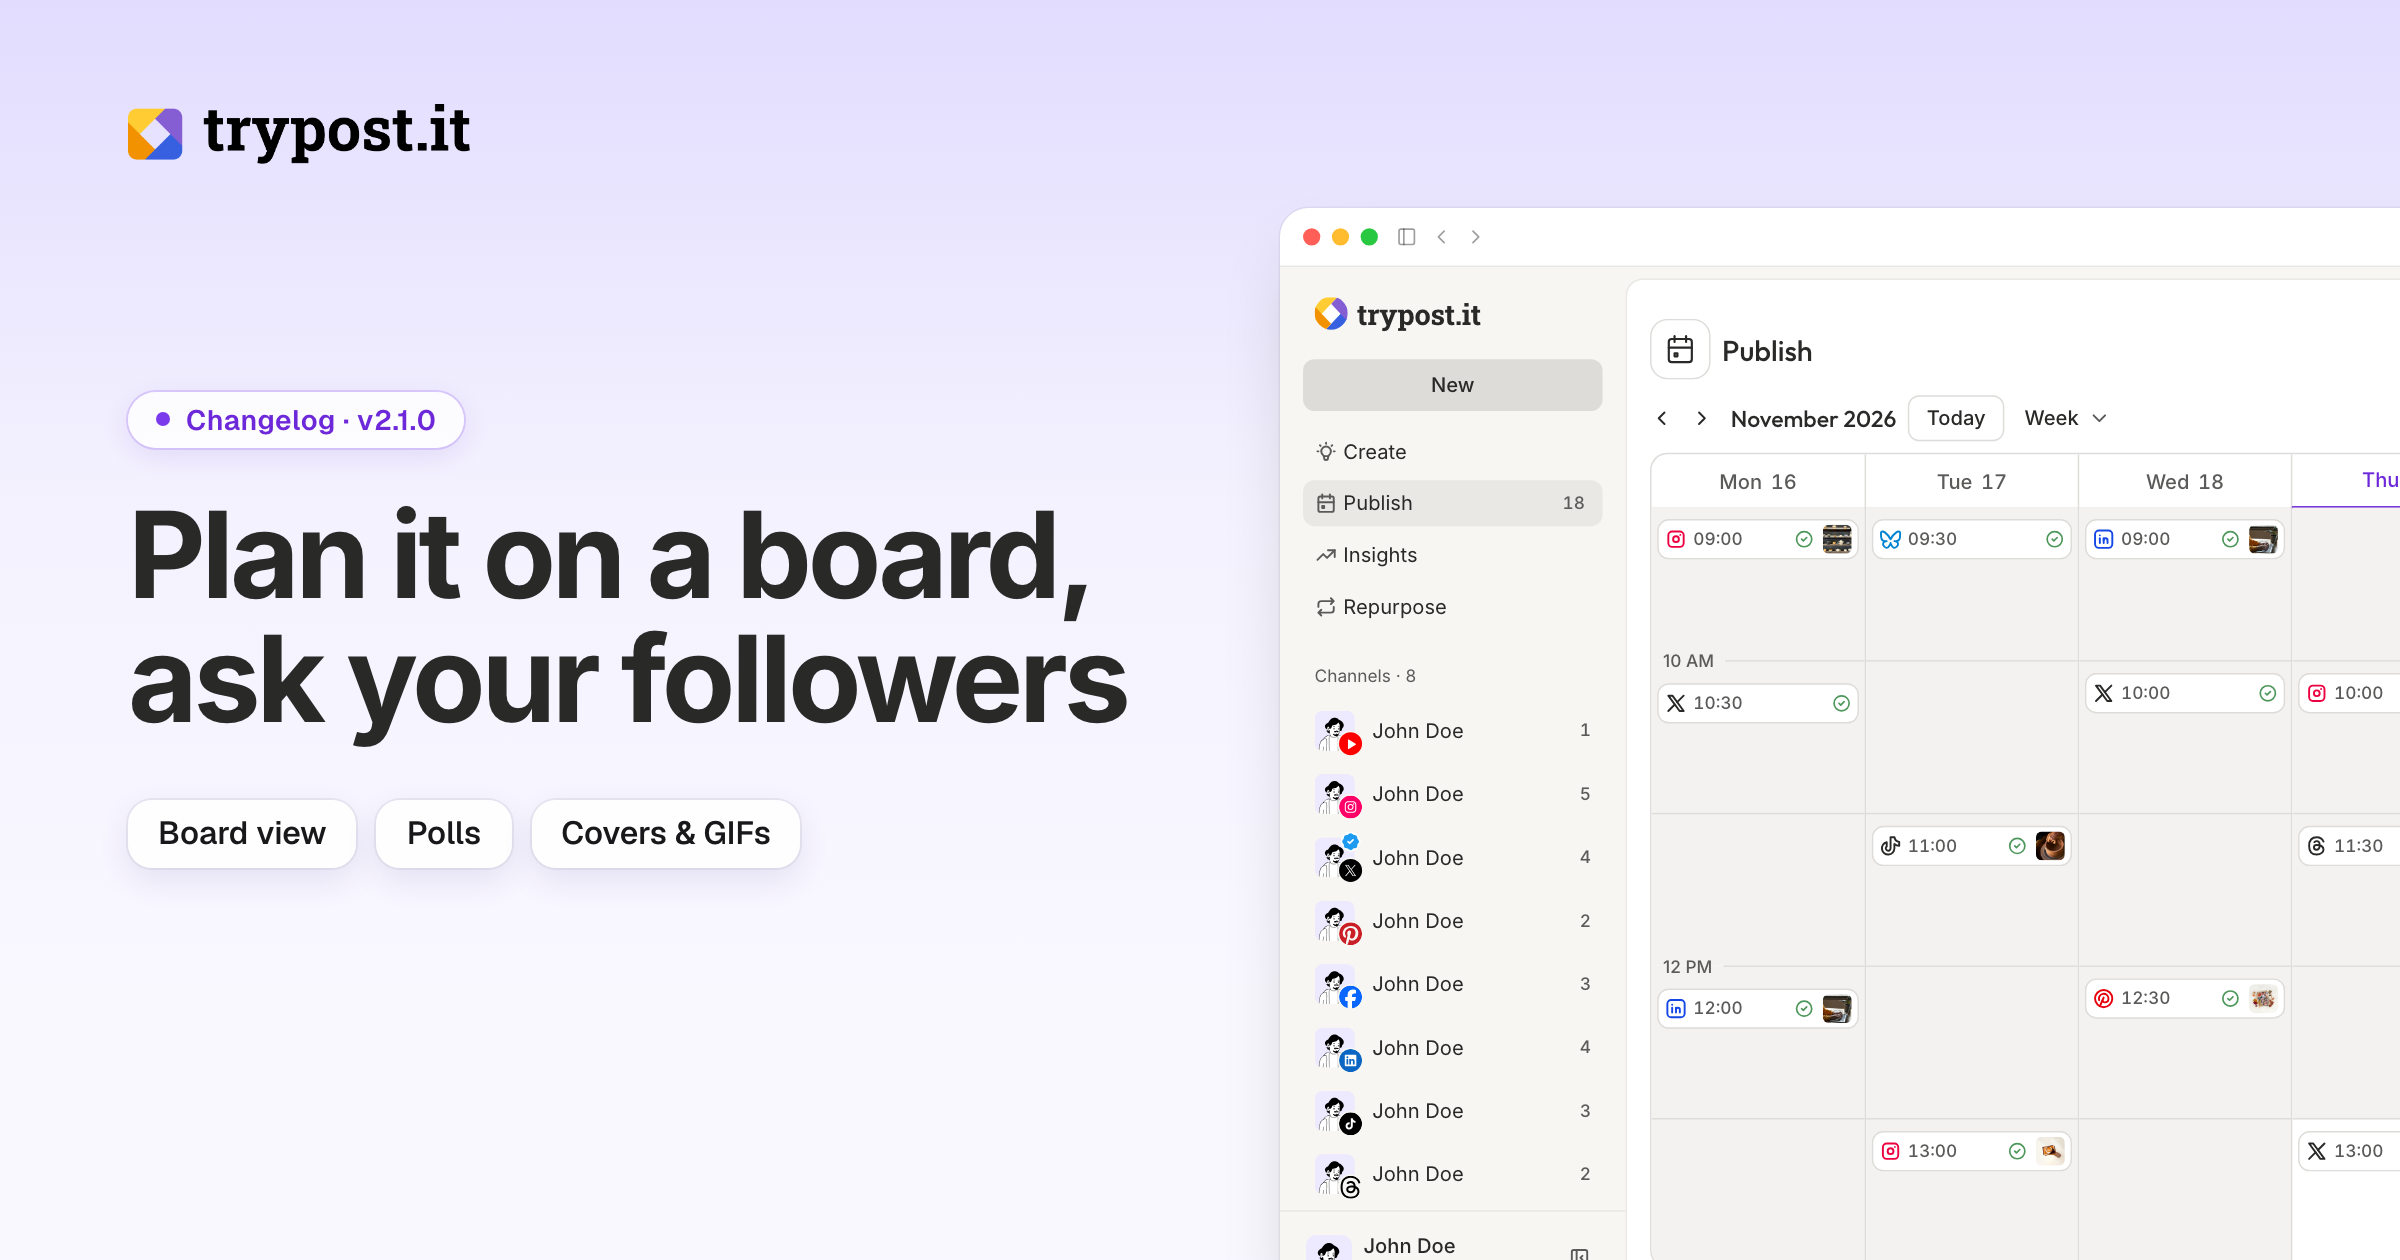
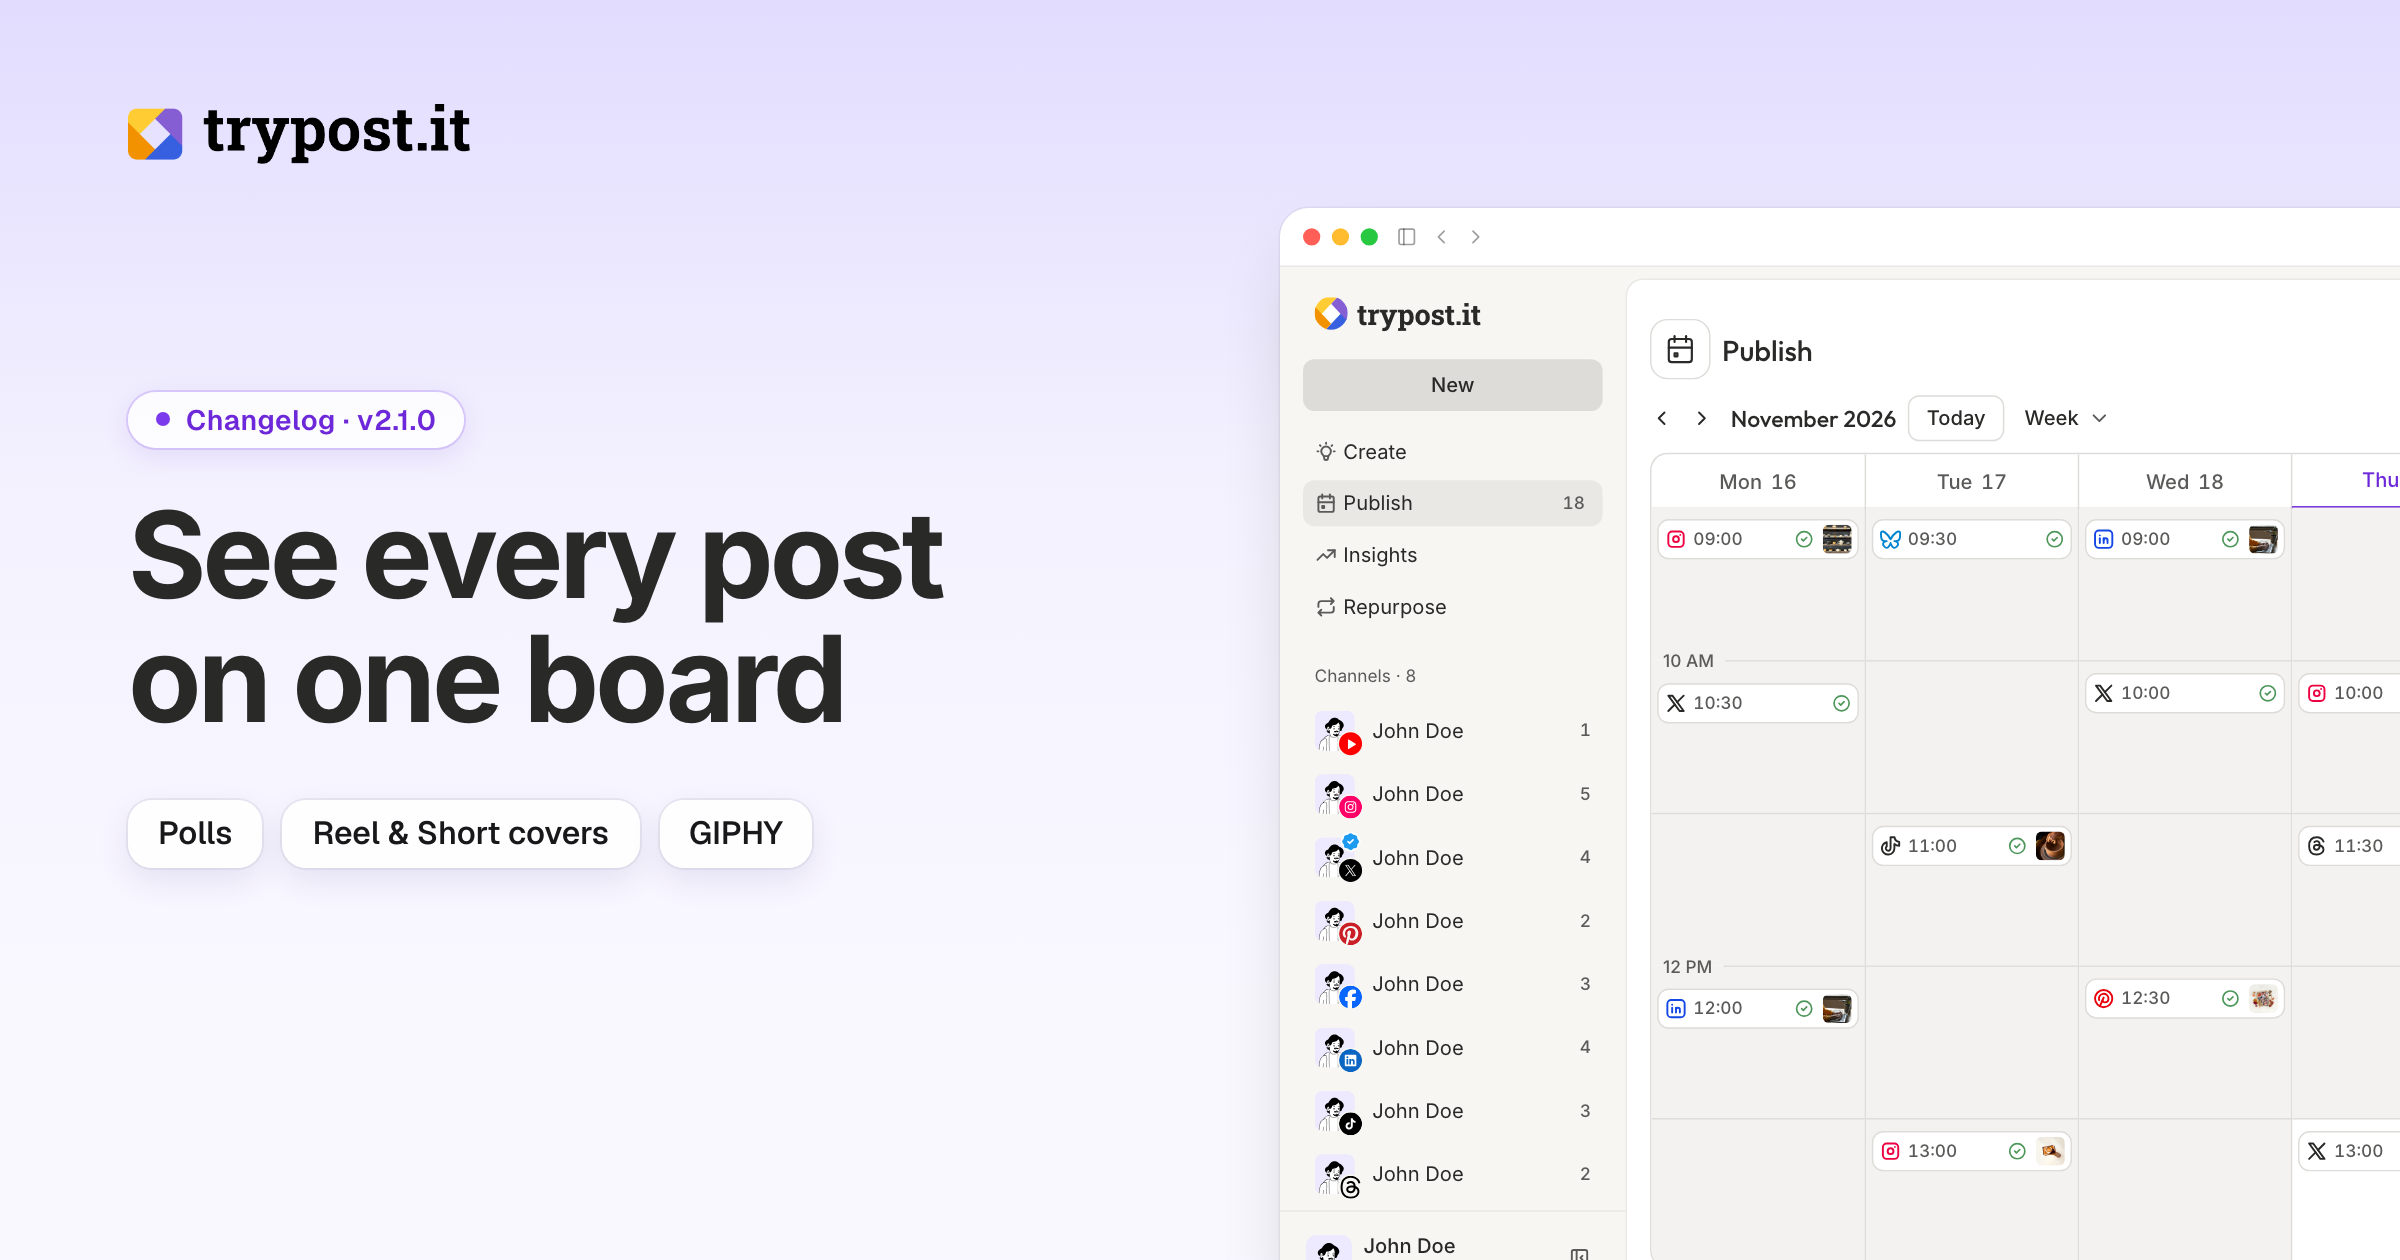
Write the release copy for the reader, and give v2.1.0 a clearer headline
/release now asks for the copywriting skill's principles and the in-app-copy voice: every
header, subject slot and bullet passes the "Now you can" test, talks to the reader, leads with
the point and uses the words on screen. The thumbnail headline carries the one biggest win in
two short lines, and the chips name the rest. The engine keeps each headline line on one line.
The v2.1.0 email and thumbnail are rewritten that way.

Changed region(s): [[0.0312, 0.4024, 0.4688, 0.5881], [0.0625, 0.65, 0.3438, 0.681]]

diff --git a/.claude/release-assets/render-thumbnail.ts b/.claude/release-assets/render-thumbnail.ts
@@ -188,7 +188,7 @@ try {
                 `margin:0;font-family:${titleStyle.fontFamily};font-weight:${titleStyle.fontWeight};font-size:${layout.title}px;line-height:1.04;letter-spacing:-0.035em;color:${titleStyle.color}`,
             );
             for (const text of [line1, line2]) {
-                headline.append(element('span', 'display:block', text));
+                headline.append(element('span', 'display:block;white-space:nowrap;width:max-content', text));
             }
 
             const chips = element('div', 'display:flex;flex-wrap:wrap;gap:10px;margin-top:30px');
@@ -204,6 +204,14 @@ try {
 
             column.append(pill, headline, chips);
             section.append(logo, column);
+
+            // Each line stays on one line: the headline shrinks until its longest line fits the column.
+            const widest = (): number => Math.max(...[...headline.children].map((line) => (line as HTMLElement).offsetWidth));
+            let size = layout.title;
+            while (size > 36 && widest() > column.clientWidth) {
+                size -= 1;
+                headline.style.fontSize = `${size}px`;
+            }
             window.scrollTo(0, 0);
         },
         { layout, line1, line2, themes, version: args.version },

diff --git a/.claude/commands/release.md b/.claude/commands/release.md
@@ -134,6 +134,16 @@ You're receiving this because you subscribed.
 
 **Always end with the unsubscribe footer** — the `---` separator, the "You're receiving this because you subscribed." line, and an `[Unsubscribe]({{unsubscribe_url}})` link below the signature. Keep `{{unsubscribe_url}}` as a literal placeholder; the email sending tool fills it in. This footer is required on every customer email.
 
+#### Voice
+
+The email is copy, not a commit log: apply the `copywriting` skill's principles (`.agents/skills/copywriting/SKILL.md`) and the voice of the `in-app-copy` skill (`.claude/skills/in-app-copy/SKILL.md`). In practice:
+
+- **Run every header, subject slot and bullet through "Now you can…".** If "Now you can see every post on a board" reads as a concrete, true new ability, keep it. If it reads vague ("Now you can… plan it on a board") or isn't an ability at all, rewrite it.
+- **Talk to the reader and lead with the point.** "You", "your posts". The first sentence of a section says what they can do now; the details come after. A rhetorical question that names their situation is a good opener ("Want to know what's waiting for approval?").
+- **Use the words on screen.** Name buttons, tabs and types as the app shows them (Publish, Board, Poll, Sent, Move up), so the reader can find the thing the email talks about. No internal names (slots, holders, meta, destinations).
+- **Specific over clever.** Say which networks, which view, which limit. A line that sounds nice but could describe any release ("Plan it on a board, ask your followers") fails.
+- **Bullets start with what the reader can do** (an imperative or "you can"), not with the name of a feature: "Add a first comment to a LinkedIn post", not "LinkedIn comments".
+
 #### Section headers
 
 A theme header names the outcome the reader gets or the symptom that is gone. Sentence case. It has to make sense to someone who never saw the bug report.
@@ -222,10 +232,11 @@ The humanizer skill itself covers all patterns. Trust it.
 Derive these inputs from the release. The **headline and the chips play different roles — never make one restate the other**:
 
 - **version** — always pass the release version (e.g. `v1.0.6`). It is shown in the violet pill under the logo (`● Changelog · v1.0.6`) so every release image is consistent. Not optional.
-- **headline** — a crafted marketing hero line (2-6 words, at most two lines), in the voice of the marketing site's hero (`Run your social media on autopilot`). It sells the *benefit* of the release's biggest wins; it is the loudest thing on the image. Do **NOT** paste the subject line, and do **NOT** just list the theme/chip words — the chips already name the areas, so the headline sits one level above them. Read the email's themes **and** the "New features" bullets, find the strongest story, and write a fresh benefit line. A little rhythm helps (a parallel pair reads well, e.g. `Speak every language, reach every reader`). Sentence case, no version number in the headline itself (it lives in the pill), no period. It always renders on two lines: put a `|` where the second line starts (`Speak every language, | reach every reader`) so the break lands on the phrase; without one the script splits at the middle word.
-  - ❌ `Your language, mobile, and per-image alt text` (this is just the chip labels)
-  - ✅ `Speak every language, reach every reader` (benefit-driven, distinct from the chips)
-- **themes** — 2-4 short chip labels naming the concrete areas that shipped, condensed to 1-2 words each (e.g. `Languages`, `Mobile`, `Alt text & previews`). These are secondary supporting labels, rendered as white glass pills under the headline. Keep them concrete and distinct from the headline's wording. **Order the chips to match the email's section order**, so the image and the email tell the story in the same sequence. Chips are the one place a bare area label is correct: the headline sells the benefit, the chips name where it landed.
+- **headline** — the release's single biggest win, as a hero line that passes the "Now you can…" test (see Voice in Step 4): "Now you can see every post on one board" is concrete and true, so `See every post | on one board` works; `Plan it on a board, ask your followers` does not (vague, two ideas, says nothing a reader can picture). One idea only: the widest-reach theme, which is also the email's first section. The rest of the release goes in the chips. Two short lines of about 15–20 characters each, split with `|` (`See every post | on one board`); the script shrinks a line that is too long for the column, so a long line comes out small: shorten it instead. Sentence case, no version number (it lives in the pill), no period.
+  - ❌ `Plan it on a board, ask your followers` (clever, vague, two ideas)
+  - ❌ `All your posts on one board, polls on X, Mastodon and Threads` (two ideas, too long for the column)
+  - ✅ `See every post | on one board`
+- **themes** — 2-4 short chip labels naming the other things that shipped (never the headline's own feature again), condensed to 1-3 words each (e.g. `Polls`, `Reel & Short covers`, `GIPHY`). These are secondary supporting labels, rendered as white glass pills under the headline. Keep them concrete. **Order the chips to match the email's section order** (after the first section, which the headline carries), so the image and the email tell the story in the same sequence. Chips are the one place a bare area label is correct: the headline sells the benefit, the chips name where it landed.
 
 Create the directory and render the thumbnail so the user can preview it before confirming:
 

diff --git a/releases/v2.1.0/email.md b/releases/v2.1.0/email.md
@@ -1,8 +1,8 @@
 ---
-subject: "Changelog v2.1.0 — See your posts on a board, polls on X, Mastodon and Threads and more..."
+subject: "Changelog v2.1.0 — See every post on a board, poll your followers and more..."
 ---
 
-# Changelog v2.1.0 — See your posts on a board, polls on X, Mastodon and Threads and more...
+# Changelog v2.1.0 — See every post on a board, poll your followers and more...
 
 By TryPost Product Team • [Release v2.1.0](https://github.com/trypostit/trypost/releases/tag/v2.1.0)
 
@@ -10,30 +10,32 @@ Hello! Welcome to this week's update. Here's what's new in TryPost.
 
 ## See every post on a board
 
-Publish has a third view next to List and Calendar: a Board. Group your posts by status (Draft, Approvals, Scheduled, Published, Failed), by tag or by channel, and each one gets its own column. Click a card to open the post, or approve a pending one without leaving the board. Publish now opens on whichever view you used last. While we were at it, Settings → Channels got a cleaner layout, and the first time you open Publish or Insights a short tour shows you where the new bits are.
+Want to know what's waiting for approval, or which channel has nothing scheduled? Open Publish and switch to Board. Your posts line up in columns by status (Draft, Approvals, Scheduled, Published, Failed), by tag or by channel, so the whole plan fits on one screen. You can approve a pending post right on its card, and Publish now opens on the view you used last.
 
-## Polls on X, Mastodon and Threads
+## Poll your followers on X, Mastodon and Threads
 
-Want to know what your followers think? Schedule a poll like any other post: the post text is the question, you add up to four choices and pick how long it stays open (Threads decides that one for you). On X and Mastodon, any post of a thread can be a poll, and Mastodon also lets people pick more than one answer or keeps the votes hidden until the end. Every poll in Sent shows how the votes are splitting and when voting ends. If you post a poll straight on the network, it shows up in TryPost too, with its results.
+Got a question for your audience? Pick Poll as the post type, write the question, add up to four choices and schedule it like any other post. On X and Mastodon a poll can go anywhere in a thread, and Mastodon also lets people pick more than one answer or hides the votes until the end. Sent shows how the votes split and when voting closes. Polls you post on the networks directly show up in TryPost too, with their results.
 
-## Better covers, GIFs and alt text for your media
+## Your own cover on Reels and Shorts, and GIFs from GIPHY
 
-Instagram Reels and YouTube Shorts can have a cover image now. Upload your own, or scroll a strip of the video's frames and pick one, like you would in the Instagram app. GIPHY sits next to Unsplash in the composer, so you can find a GIF without leaving TryPost, and LinkedIn takes animated GIFs. And on Mastodon, Bluesky, Threads and Discord, videos get alt text just like images do.
+The first frame of a video is rarely the one you want people to see. Now you can upload a cover for an Instagram Reel or a YouTube Short, or scroll through the video's frames and pick one. Need a GIF? Search GIPHY right in the composer, next to Unsplash. LinkedIn takes animated GIFs now too.
 
 ## New features
 
-- Mention a teammate with @ in a post's notes (or @all for everyone) and react to a note with any emoji. Notes and reactions show up live, and you get an email when someone mentions you
-- A LinkedIn post can publish one comment right after it, from the same profile or page
-- A post deleted on the network is marked as such in TryPost, and you can delete it here too
-- TryPost speaks Indonesian (Bahasa Indonesia)
-- Move up and Move down on a channel's queue can move a post into a free posting time
-- A small card invites you to connect Claude or ChatGPT from inside the app, instead of a step during signup
+- Mention a teammate with @ in a post's notes, or @all for everyone, and they get an email. You can also react to any note with an emoji
+- Add a first comment to a LinkedIn post: TryPost publishes it right after the post, from the same profile or page
+- If a post you published gets deleted on the network (Instagram, X, YouTube and most others), TryPost marks it as deleted and lets you delete it here too
+- Add alt text to videos on Mastodon, Bluesky, Threads and Discord, not only to images
+- On a channel's queue, Move up and Move down can move a post into an empty posting time
+- TryPost now speaks Indonesian (Bahasa Indonesia)
+- Settings → Channels has a cleaner layout, and a short tour shows you around the first time you open Publish or Insights
+- Connect Claude or ChatGPT from a small card inside the app. It used to be a step during signup
 
 ## Fixes
 
-- Facebook videos and reels are no longer counted twice in Insights
-- The composer tells you why a file can't go on a network, on every network, not only on Instagram, Facebook and Pinterest
-- Pages no longer break for accounts saved with an older time zone name, like Asia/Calcutta or Europe/Kiev
+- Facebook videos and reels are counted once in Insights, not twice
+- When a network can't take a file, the composer now tells you why, on every network
+- Accounts saved with an older time zone name (like Asia/Calcutta or Europe/Kiev) no longer hit an error page
 
 Cheers,
 Paulo from TryPost.it
